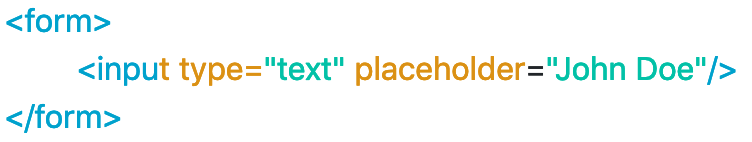
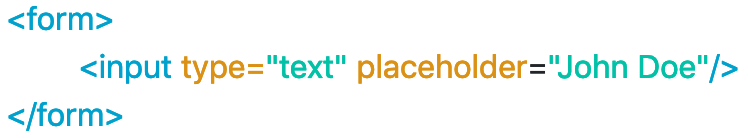
Fix image

Changed region(s): [[0.0922, 0.3768, 1.0, 0.6087], [0.0, 0.7246, 0.1845, 0.9565], [0.0, 0.029, 0.1537, 0.2319]]

diff --git a/index.js b/index.js
@@ -12,7 +12,7 @@ const Highlight = (string) => {
     string = string.replace(/>/g, '&gt;');
     string = string.replace(/=(["|'](.*?)["|'])/g, '=<span class="string">$1</span>');
     string = string.replace(/(\s.*)(?==<)/g, ' <span class="global">$1</span>');
-    string = string.replace(/(?!<span\sclass=".*">.*<\/span>)(&lt;[^\s&gt;]+)/g, '<span class="method">$1</span>');
+    string = string.replace(/(?!<span\sclass=".*">.*<\/span>)(&lt;[^\s&;]+)/g, '<span class="method">$1</span>');
     string = string.replace(/(?!<span\sclass=".*">.*<\/span>)(\/?&gt;)/g, '<span class="method">$1</span>');
 
     console.log(string);

diff --git a/index.html b/index.html
@@ -2,6 +2,10 @@
 <html lang="en">
 <head>
     <meta charset="UTF-8">
+    <meta name="description" content="Simple HTML Syntax Highlighter">
+    <meta name="keywords" content="HTML, CSS, Syntax, Highlighter, Highlight, Simple">
+    <meta name="author" content="@ajnauleau">
+    <meta name="viewport" content="width=device-width, initial-scale=1.0">
     <title>highlight-html-syntax</title>
     <link rel="stylesheet" href="./syntax.css">
     <script type="text/javascript" src="index.js"></script>
